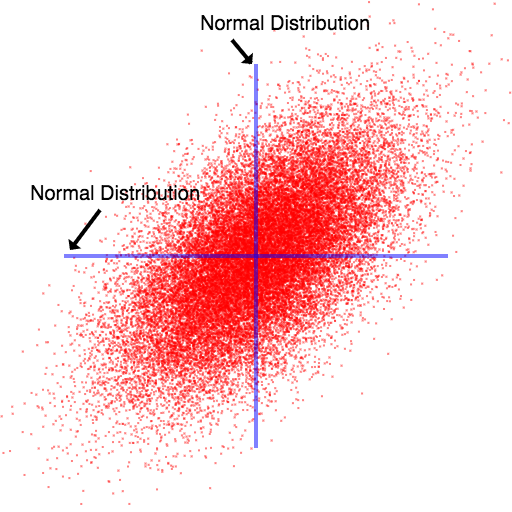
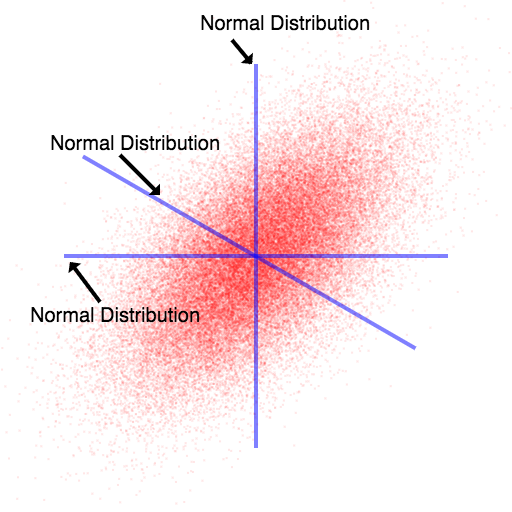
more gaussian processes edits

Changed region(s): [[0.0625, 0.0938, 0.9375, 0.9375], [0.875, 0.0625, 0.9062, 0.0938]]

diff --git a/Artificial-Intelligence/gaussian-processes.html b/Artificial-Intelligence/gaussian-processes.html
@@ -24,7 +24,10 @@ MathJax.Hub.Config({
 </p>
 
 <p>
-This article will focus on Gaussian process that map one input dimension to one output dimension.  Gaussian processes offer a way to take knowledge of a function at certain points and use that knowledge to place a probability distribution over the value of the function at other points.  For example, given that we know the value of a function at x=-1, x=0, x=1, and x=2, a particular Gaussian Process might make the following predictions for the values of the function for the function on the interval from -3 to 4:
+This article will focus on Gaussian process that map one input dimension to one output dimension, though the extension to multiple input dimensions should be natural.
+</p>
+<p>
+Gaussian processes offer a way to take knowledge of a function at certain points and use that knowledge to place a probability distribution over the value of the function at other points.  For example, given that we know the value of a function at x=-1, x=0, x=1, and x=2, a particular Gaussian Process might make the following predictions for the values of the function for the function on the interval from -3 to 4:
 </p>
 
 <img src="gp_figure1.png">
@@ -34,14 +37,18 @@ This article will focus on Gaussian process that map one input dimension to one 
 <h3>Multivariate Gaussian Distribution</h3>
 
 <p>
-The most natural extension of a Gaussian distribution to multiple dimensions seems to be
+The most natural extension of a Gaussian distribution to multiple dimensions is
 
 \[ \begin{bmatrix} \mathcal{N}(\mu_1, \sigma_1) & \mathcal{N}(\mu_2, \sigma_2) & \dots & \mathcal{N}(\mu_n, \sigma_n) \end{bmatrix} \]
 
-In two dimensions, the result would be:
+A two dimensional example (where $\sigma_x = \sigma_y * 2$) is:
 </p>
 
 <img src="gaussian2d.png" height="256px">
+
+<p>
+In general, such distributions let us represent distributions whose contour lines are axis-aligned ellipses.
+</p>
 
 <!-- <canvas id="cvs">
 </canvas>
@@ -75,8 +82,8 @@ cvs.width = 512;
 cvs.height = 512;
 
 c.fillStyle = "red";
-c.globalAlpha = 0.5;
-for (var i = 0; i < 30000; ++i) {
+c.globalAlpha = 0.1;
+for (var i = 0; i < 50000; ++i) {
 	var a = rnorm();
 	var b = rnorm();
 	var x = a - b / 3;
@@ -86,24 +93,37 @@ for (var i = 0; i < 30000; ++i) {
 	c.fillRect(x, cvs.height - y, 2, 2);
 }
 
+c.globalAlpha = 0.5;
 c.fillStyle = "blue";
-c.fillRect(cvs.width / 2 - 2, 64, 4, cvs.height - 128);
-c.fillRect(64, cvs.height / 2 - 2, cvs.width - 128, 4);
+c.fillRect(cvs.width * 0.6, 64, 4, cvs.height - 128);
+
+// var x = 150;
+// var y = 92;
+// c.fillRect(x, y, cvs.width - 128, 4);
+// c.rotate(-Math.PI / 6);
 
 c.globalAlpha = 1;
 c.fillStyle = "black";
 c.font = "20px sans-serif";
-c.fillText("Normal Distribution", 200, 30);
-c.fillText("Normal Distribution", 30, 200);
+c.textAlign = "center";
+c.fillText("f(0) = x = 1.3", cvs.width * 0.65, 50);
+// c.fillText("Normal Distribution", 200, 30);
+// c.fillText("Normal Distribution", 30, 322);
+// c.fillText("Normal Distribution", 50, 150);
 
-c.lineWidth = 4;
-draw_arrow(c, 232, 40, 20, 24, 8, 1);
-draw_arrow(c, 100, 210,-30, 40, 8, 1);
+// c.lineWidth = 4;
+// draw_arrow(c, 232, 40, 20, 24, 8, 1);
+// draw_arrow(c, 100, 302,-30, -40, 8, 1);
+// draw_arrow(c, 120, 155, 40, 40, 8, 1);
 
 </script> -->
 
 <p>
-A multivariate Gaussian distribution is a bit more powerful, and also lets the dimensions be correlated with each other.  Visually, this lets use represent ellipse-shaped distributions.  Practically it means that knowing about the value of the distribution along one dimension can give you some knowledge about its value along another dimension.
+A multivariate Gaussian distribution is a bit more powerful than this, as it also lets the dimensions be correlated with each other.  Visually, this lets use represent linear transformations of the ellipse-shape above.  Practically it means that knowing about the value of the distribution along one dimension can give you some knowledge about its value along another dimension.
+</p>
+
+<p>
+An important property is that any "slice" of a multivariate Gaussian distribution is a multivariate Gaussian distribution.  We will exploit this property. 
 </p>
 
 <img src="gaussian2d-2.png" height="384px">
@@ -111,42 +131,54 @@ A multivariate Gaussian distribution is a bit more powerful, and also lets the d
 <p>
 We represent a D-dimensional multivariate Gaussian distribution using the typical normal distribution notation "$\mathcal{N}(\mu, \sigma^2)$", but use a vector of means and a matrix of variances and covariances:
 
-\[ p(X_1 = x_1, X_2 = x_2, X_3 = x_3) = \mathcal{N}(\vec{\mu}, \Sigma) \]
+\[ p(\vec{x}) = \mathcal{N}(\vec{x}, \vec{\mu}, \Sigma) \]
 
 $\vec{\mu}$ contains $D$ elements and $\Sigma$ is a $D \times D$ matrix.  The diagonal of $\Sigma$ contains the variance of each variable, while $\Sigma_{ij}$ represents the covariance between dimensions $i$ and $j$.  $\Sigma$ is symmetric and positive semi-definite.
 </p>
 
 <p>
-When we say that "knowing about the value of the distribution alongn one dimension can give you some knowledge about its value along another dimension", what we're really talking about is conditioning.  In other words, starting with the joing distribution:
+When we say that "knowing about the value of the distribution along one dimension can give you some knowledge about its value along another dimension", what we're really talking about is conditioning.  In other words, starting with the 2D joint distribution:
 
-\[ p(Y = y, X = x) = \mathcal{N}(\vec{\mu}, \Sigma) \]
+\[ p([x, y]) = \mathcal{N}([x, y], \vec{\mu}, \Sigma) \]
 
 And trying to determine a posterior:
 
-\[ p(Y=y | X=x) = \dots \]
+\[ p(y | x) = \dots \]
 
-Most of what is described on this page can be derived once one knows the above expression.  We give this expression now, but in matrix form, which extends the solution to describing a posterior for multiple dimensions, given the values at multiple other dimensions.  Unsurprisingly, the posterior is another multivariate Gaussian!
+The pdf described by $p(y | x=c)$ is equivalent to asking for the (normalized) "slice" of the (original) joint distribution defined by $x = c$:
+
+<img src="gaussian2d-3.png" height="384px">
+
+Recall that this 'slice' is also a multivariate Gaussian distribution, so we'd like to define $p(y | x)$ using a mean vector $\mu$ and a variance matrix $\Sigma$.
 </p>
 
 <p>
-Suppose that, of the $D$ dimensions, you know the first $N$ dimensions.  Then let
+In the case where we condition on one dimension and want to know the distribution about another, the solution is is a regular 1-D Gaussian distirbution:
+
+\[ p(y | x) = \mathcal{N}(\mu, \Sigma)\]
+
+\[\mu = \mu_y + \frac{\text{cov}(x, y)}{\sigma_y} (x - \mu_x))\]
+
+\[ \Sigma = \sigma_y - \frac{\text{cov}(x, y)^2}{\sigma_x} \]
+</p>
+
+<p>
+But it will be useful to be able to condition on an arbitrary number of dimensions.  To that end, suppose you know the first $N$ dimensions of a $D$ dimensional multivariate Gaussian distribution.  Then we can organize $\Sigma$ into four corners:
 
 \[ \Sigma = \begin{bmatrix}
 \Sigma_{11} & \Sigma_{12}\\
 \Sigma_{21} & \Sigma_{22}
 \end{bmatrix} \]
 
-So that $\Sigma_{11}$ is the covariance matrix of the first $N$ dimensions and $Sigma_{22}$ is the covariance matrix of the remaining dimensions.  Also recall our prior:
+Recall that $\Sigma_{ij}$ is the covariance between dimensions $i$ and $j$.  $\Sigma_{11}$ is the covariance matrix of the first $N$ dimensions and $\Sigma_{22}$ is the covariance matrix of the remaining dimensions.  $\Sigma_{12}$ and $\Sigma_{21}$ are the covariances between the dimensions you know and the dimensions you don't know.  Then, for the joint distribution
 
-\[ p(X_1, X_2) = \mathcal{N}(\vec{\mu}, \Sigma) \]
+\[ p(\vec{x}) = \mathcal{N}(\vec{mu}, \Sigma) \]
 
-Then the posterior is:
+The conditional distribution is:
 </p>
 
 
-\[ p(X_2 | X_1) = \mathcal{N}(\vec{\mu}_{2|1}, \Sigma_{22|1})\]
-
-Where
+\[ p(\vec{x}_2 | \vec{x}_1) = \mathcal{N}(\vec{\mu}_{2|1}, \Sigma_{22|1})\]
 
 \[\vec{\mu}_{2|1} = \vec{\mu}_2 + \Sigma_{21} \Sigma_{11}^{-1} (X_1 - \vec{\mu}_1)\]
 
@@ -162,21 +194,21 @@ A Gaussian Process assigns every possible input-value a "dimension" in a multiva
 
 \[ f: \{0, 1\} \rightarrow \mathbb{R} \]
 
-Then in the image below, one could say that the "x-axis" represents our belief over the value of $f(0)$ and the "y-axis" represents our belief over the value of $f(1)$.  If we know the value of $f(0)$ (by observing it), then this may give us some information about the value of $f(1)$.  As noted above, conditioning on our knowledge of $f(0)$ yields a normal distribution over $f(1)$.
+Then in the image below, we could let the "x-axis" represent our belief over the value of $f(0)$ and the "y-axis" represent our belief over the value of $f(1)$.  If we know the value of $f(0)$ (by observing it), then this may give us some information about the value of $f(1)$.  As noted above, conditioning on our knowledge of $f(0)$ yields a normal distribution over $f(1)$.
 </p>
 
-<img src="gaussian2d-2.png" height="384px">
+<img src="gaussian2d-4.png" height="384px">
 
 <p>
 But many real world problems have uncountably many possible inputs.  A far more common case is a function that maps numbers to numbers:
 
 \[ f: \mathbb{R} \rightarrow \mathbb{R} \]
 
-A Gaussian Process will reason about this the exact same way it reasoned about the discrete case: if will form a Gaussian distribution over every possible input-value &mdash; but in this case the distribution is infinite dimensional.  Then it will look at the values/dimensinos it knows (i.e. the "training set" or "observations") and use this knowledge to compute a new multi-variate distribution over all the other points.
+A Gaussian Process will reason about this the exact same way it reasoned about the discrete case: if will form a Gaussian distribution over every possible input-value &mdash; but in this case the distribution is infinite dimensional.  Then it will look at the values/dimensions that it knows (i.e. the "training set" or "observations") and use this knowledge to compute a new multivariate distribution over all the other inputs.
 </p>
 
 <p>
-At first blush, it seems rather dubious that one could computationally use the machinery we used to condition finite-dimensional multivariate Gaussian distributions on infinite-dimensional ones... and such skepticism would be well place!  Recall the definition from the beginning of the article:
+At first blush, it seems rather dubious that one could computationally use the machinery we used to condition finite-dimensional multivariate Gaussian distributions to also condition on infinite-dimensional ones.  In fact, such skepticism would be well placed!  Recall the definition from the beginning of the article:
 
 <b>Def:</b> A <u>Gaussian Process</u> is a collection of random variables, any finite number of which have a joint Gaussian distribution
 </p>
@@ -185,17 +217,17 @@ The key is that we only ever <i>care</i> about the Gaussian distribution at a fi
 
 <img src="gp_figure1.png">
 
-We only know the input at 4 locations, and so if we ever want to determine a prediction at some other point, we simply have to form a 5-dimensional multivariate Gaussian distribution and condition the dimension whose value we want on the dimensions whose values we know:
+We only know the input at 4 locations, and so if we ever want to determine a prediction at some other point, we simply have to form a 5-dimensional multivariate Gaussian distribution, condition on the dimensions we know and see what the resulting distribution is for the dimension we want to know.  So if I want to know the normal distribution as $x = \frac{1}{2}$, then I'm just computing
 
-\[ p(f(x)\ |\ f(-1), f(0), f(1), f(2)) = \dots\]
+\[ p(f(\frac{1}{2})\ |\ f(-1), f(0), f(1), f(2)) = \dots\]
 </p>
 
 <p>
-Since we don't know what x-values we will observe and what x-values we will want to predict (until we're actually feeding our model data), we typically can't write out $\Sigma$ explicitly.  Instead, we represent $\Sigma$ with a "kernel" function $k$
+The only difference is that since we don't know what x-values we will observe and what x-values we will want to predict a priori (until we're actually feeding our model data), we typically can't write out $\Sigma$ explicitly beforehand.  Instead, we represent $\Sigma$ with a "kernel" function $k$
 
 \[ k: \mathbb{R} \times \mathbb{R} \rightarrow \mathbb{R} \]
 
-For example, if we want to evaluate the above model at $x=0.5$, then we have:
+For example, if we want to evaluate the above model at $x=\frac{1}{2}$, then we have:
 
 \[
 \Sigma = \begin{bmatrix}
@@ -209,50 +241,69 @@ k(\frac{1}{2}, -1) & k(\frac{1}{2}, 0) & k(\frac{1}{2}, 1) & k(\frac{1}{2}, 2) &
 
 Note that $k$ determines the covariance between two different inputs' outputs.  In other words
 
-\[ k(x_1, x_2) = cov(f(x_1), f(x_2))\]
+\[ k(x_1, x_2) = \text{cov}(f(x_1), f(x_2))\]
 
 </p>
 
 <h2>Another Perspective: Linear Regression</h2>
 
-Let's switch gears to another perspective, which is "deriving" Gaussian processes from linear regression... TODO
-
-Let $X$ and $\vec{y}$ be your observations (i.e. your "training data").  The Bayesian approach to linear regression is to assume that
+<p>
+Let's switch gears to another perspective, which is "deriving" Gaussian processes from linear regression. Let $X$ and $\vec{y}$ be your observations (i.e. your "training data").  The Bayesian approach to linear regression is to assume that
+</p>
 
 \[ \vec{y} = X^T \vec{w} + \vec{\epsilon} \]
 
 <p>
-For some vector $\vec{w}$, where $\epsilon$ is a normally distributed noise with mean=0 and standard deviation = $\sigma$.  It turns out the maximum likelihood estimator for $w$ is the same line that minimizes squared error - i.e. <a href="https://en.m.wikipedia.org/wiki/Linear_regression">linear regression</a>.
+	For some vector $\vec{w}$, where $\epsilon$ is a normally distributed noise with mean=0 and standard deviation = $\sigma$.  We can view the training data as evidence for what the true value of $w$ is, and arrive at a conditional probability over any $y_*$ given some $x_*$.  Some amount of fiddling around with Bayes' Theorem and normal distributions lets us arrive at this:
+
+	\[ p(y_* | x_*, X, \vec{y}) = \mathcal{N}(\vec{x}_*^T \vec{w}, \sigma^2) \]
+
+	Where $w^*$ is determined from the least-squares regression line, and $\sigma^2$ is a value we will calculate later.
 </p>
-<p>
-What's interesting about this formulation of the problem is that, rather than merely a line, it yields a normal distribution at every x value.  In other words, the probability distribution over the value $y_*$ at some $x_*$ is:
 
-\[ p(y_* | X, \vec{y}, \vec{x}_*) \propto \mathcal{N}(\mu = \vec{x}_*^Tw, \text{var} = \sigma^2) \]
+<p>
+	This means that the maximum likelihood estimator predicted by the Bayesian approach to linear regression is the same as a frequentists' least-squares regression line.  The difference is that a Bayesian has the solution formulated as a probability distribution (not just a line), so s/he may give probabilities that an observation will fall within some interval.
 </p>
+
+<h3>Higher Dimensions</h3>
+
 <p>
-Of course there are a wide number of nonlinear relationships that cannot be represented as a linear regression.  A common trick to expand this same machinery to a wider class of functions is to use some function
+	Of course there are a wide number of nonlinear relationships that cannot be represented as a linear regression.  A common trick to expand this same machinery to a wider class of functions is to use some function
 
-\[ \phi: \mathbb{R}^D \rightarrow \mathbb{R}^N \]
+	\[ \phi: \mathbb{R}^D \rightarrow \mathbb{R}^N \]
 
-to map data from a low dimensional space to a higher dimensional space, and then performing linear regression on the higher-dimensional vectors.  For example, if you map $\mathbb{R}^1$ to $\mathbb{R}^4$ with:
+	to map data from a low dimensional space to a higher dimensional space, and then performing linear regression on the higher-dimensional vectors.  For example, if you map $\mathbb{R}^1$ to $\mathbb{R}^4$ with:
 
-\[ \phi(x) = [1, x, x^2, x^3] \]
+	\[ \phi(x) = [1, x, x^2, x^3] \]
 
-then a linear regression on $\phi[X]$ is equivalent to finding the least-squares cubic polynomial.  In essence, by choosing some $\phi$, you're claiming that you believe the data can be modeled as
+	then a linear regression on $\phi[X]$ is equivalent to finding the least-squares cubic polynomial.  In essence, by choosing some $\phi$, you're claiming that you believe the data can be modeled as
 
-\[ \vec{y} + \vec{\epsilon} = \phi[X]^T \vec{w} \]
+	\[ \vec{y} = \phi[X]^T \vec{w} + \vec{\epsilon} \]
+</p>
 
+<p>
+	We haven't paid much attention to <i>actually calculating</i> the least squares line.  It turns out that the solution is given as
+
+	\[ p(y_* | \vec{x}_*, X, \vec{y}) = \mathcal{N}(\mu, \sigma^2)\]
+
+	\[\mu = \frac{1}{\sigma^2} \phi(x_*)^T A^{-1} \phi[X] y\]
+
+	\[\sigma^2 = \phi(x_*)^T A^{-1} \phi(x_*) \]
+
+	\[ A = \sigma^{-2}\phi[X] \phi[X]^T + \Sigma^{-1} \]
+
+	Where $\Sigma$ is the covariance matrix of the prior on $\vec{w}$.  For example, if $\vec{w}$'s components are uncorrelated normal distributions with means of zero and standard deviations $\sigma_1, \sigma_2, \dots, \sigma_n$, then:
+
+	\[ \Sigma = \begin{bmatrix}
+	\sigma_1 & 0 & \dots & 0\\
+	0 & \sigma_2 & \dots & 0\\
+	\vdots & \vdots & \ddots & \vdots\\
+	0 & 0 & \ddots & \sigma_n\\
+	\end{bmatrix}
+	 \]
 </p>
 
 <h2>Kernel Trick</h2>
-
-<p>
-The least-squares solution (i.e. the MLE, assuming it is a linear function with Gaussian noise) is solved with the following formula:
-
-\[ p(y_* | \vec{x}_*, X, \vec{y}) = \mathcal{N}(\frac{1}{\sigma^2} \phi(x_*)^T A^{-1} \phi[X] y, \phi(x_*)^T A^{-1} \phi(x_*)) \]
-
-Where $A = \sigma^{-2}\phi[X] \phi[X]^T + \Sigma^{-1}$, where $\Sigma$ is the covariance matrix of the prior on $\vec{w}$.  Note that $A$ is a square matrix and its size is equal to the dimensionality of $\phi(x)$
-</p>
 
 <p>
 The <b>kernel trick</b> is a trick in machine learning (and elsewhere) which, informally, involves swapping the dimensionality of your data points with the number of data points you have.  If you have data with high dimensionality and few points, you can often rephrase the problem as having low dimensionality and a high number of points.
@@ -272,11 +323,11 @@ k(A_2, B_1) & k(A_2, B_2) & \dots & k(A_2, B_m)\\
 k(A_n, B_1) & k(A_n, B_2) & \dots & k(A_n, B_m)\\
 \end{bmatrix} \]
 
-This notation allows us (after some thought) to rewrite the formula above as:
+This notation allows us (after some thought) to rewrite the formula for linear regression as:
 
-\[ p(y_* | \vec{X}_*, X, \vec{y}) = \mathcal{N}(\mu, \sigma^2)\]
+\[ p(\vec{y}_* | \vec{X}_*, X, \vec{y}) = \mathcal{N}(\mu, \sigma^2)\]
 
-\[\mu = k(X_*, X) k(X, X)^{-1} y,\]
+\[\mu = k(X_*, X) k(X, X)^{-1} \vec{y},\]
 
 \[\sigma^2 = k(X_*, X_*) - k(x_*, X) (X, X)^{-1} k(X, X_*)\]
 
@@ -289,21 +340,25 @@ An astute reader will note that this looks eerily similar to the formula for the
 
 \[\Sigma_{22|1} = \Sigma_{22} - \Sigma_{21} \Sigma_{11}^{-1} \Sigma_{12}\]
 
-And, indeed, they are nearly identical, except that the multivariate gaussian formulation need not assume that the mean value a priori is zero.  In other words, if $\vec{\mu} = 0$, then both formulations are the same.
+And, indeed, they are nearly identical, except that the multivariate gaussian formulation need not assume that the mean value is zero a priori.  In other words, if $\vec{\mu} = 0$, then both formulations are the same.
 </p>
 
-<h3>Why Did We Do This?</h3>
+<h3>Why Kernels?</h3>
 
 <p>
-First note that $K$ is a $|X| \times |X|$ matrix, which means that, as promised, calculating predictions no longer scales with the dimensionality of the data, but with the <i>number</i> of datapoints we have... that is, assuming that $k(x_1, x_2)$ can be evaluated quickly.  But considering that we defined $k(x_1, x_2$ as the inner product of $\phi(x_1)$ and $\phi(x_2)$, it seems clear that it <i>does</i> scale with the number of dimensions in the feature expansion.
-</p>
-
-<p>
-What's key is that there are many (useful!) feature expansions whose corresponding kernel can be <i>far</i> more efficiently calculated than its corresponding $\phi$.  This efficiency is taken to the extreme when $\phi$ maps to an <i>infinite</i> dimensional space &mdash; for instance, the famous $k(x_1, x_2) = e^{-(x_1 - x_2)^2}$ kernel.  While an inner product of an infinite dimensional feature expansion would take forever, evaluating $e^{-(x_1 - x_2)^2}$ is nearly instantaneous!
+	So why is it advantageous to use the kernel-substitution?
 </p>
 
 <p>
-That being said, it's probably not worth your time to "convert" a feature expansion you'd like to do into its corresponding kernel.  Instead, consider what you think is a "good" measure of two points' similarity and choose a kernel that reflects that.  Better yet, simply choose from some of the most popular kernels (some are listed at the bottom of this page).  And remember: a kernel ultimately is a measure of the  <i>similarity</i> of two points &mdash; it determines the <i>covariance</i> of their corresponding y values.
+	First note that $K$ is a $|X| \times |X|$ matrix, which means that, as promised, calculating predictions no longer scales with the dimensionality of the data, but with the <i>number</i> of datapoints we have... assuming that $k(x_1, x_2)$ can be evaluated quickly.  But considering that we defined $k(x_1, x_2$ as the inner product of $\phi(x_1)$ and $\phi(x_2)$, it seems clear that it <i>does</i> scale with the number of dimensions in the feature expansion.
+</p>
+
+<p>
+	What's key is that there are many (useful!) feature expansions whose corresponding kernel can be <i>far</i> more efficiently calculated than its corresponding $\phi$.  This efficiency is taken to the extreme when $\phi$ maps to an <i>infinite</i> dimensional space &mdash; for instance, the famous $k(x_1, x_2) = e^{-(x_1 - x_2)^2}$ kernel.  While an inner product of an infinite dimensional feature expansion would take forever, evaluating $e^{-(x_1 - x_2)^2}$ is nearly instantaneous!
+</p>
+
+<p>
+	That being said, it's probably not worth your time to "convert" a feature expansion you'd like to do into its corresponding kernel.  Instead, consider what you think is a "good" measure of two points' similarity and choose a kernel that reflects that.  Better yet, simply choose from some of the most popular kernels (some are listed at the bottom of this page).  And remember: a kernel ultimately is a measure of the  <i>similarity</i> of two points &mdash; it determines the <i>covariance</i> of their corresponding y values.
 </p>
 
 <h3>Example</h3>
@@ -328,11 +383,15 @@ And the observations
 \end{bmatrix}
 \]
 
-Using the formula for conditioning on Gaussians, we can calculate the multivariate normal distribution for any finite number of points we want.  In this case, I evaluated it at 700 evenly spaced points between -3 and 4, which gave me a 700-long $\vec{\mu}$ which represents the best guess (i.e. the center of the Gaussian) at each point.  Plotting this gave me the red line.
+Don't be fooled by the Gaussian nature of this kernel!  I could have chosen a completely different kernel, but the reasoning below would still apply.
 </p>
 
 <p>
-I also got a covariance matrix out, and the diagonal of the covariance matrix gives us the variance of each distribution.  If we take the square root and multiply by $1.96$ we can find a region for every $x$ that has a 95% chance of containing the "true" function value &mdash; this is the blue region.
+	Using the formula for conditioning on Gaussians, we can calculate the multivariate normal distribution for any finite number of points we want.  In this case, I evaluated it at 700 evenly spaced points between -3 and 4, which gave me a 700-long $\vec{\mu}$ which represents the best guess (i.e. the center of the Gaussian) at each point.  Plotting this gave me the red line.
+</p>
+
+<p>
+	I also got a covariance matrix, and the diagonal of this covariance matrix gives us the variance of each distribution (i.e. our "uncertainty" at each x-value).  If we convert the variance to a standard deviation and multiply by $1.96$ we can find a region for every $x$ that has a 95% chance of containing the "true" function value &mdash; this is the blue region.
 </p>
 
 <p>
@@ -342,13 +401,24 @@ Note that the red line hits every observed point exactly, and that our uncertain
 
 <h2>Noise</h2>
 <p>
-As you may have noticed, I have been ignoring noise terms.  Adding noise terms is a simple matter of adding $\sigma^2 I$ to $K(X,X)$.
+As you may have noticed, I have been ignoring noise terms.  Adding noise terms is a simple matter of adding $\sigma^2 I$ to $k(X,X)$.
 
 \[ p(y_* | \vec{X}_*, X, \vec{y}) = \mathcal{N}(\vec{\mu}, \Sigma)\]
 
-\[\mu = k(X_*, X) (K + \sigma^2 I)^{-1} y\]
+\[\mu = k(X_*, X) (k(X,X) + \sigma^2 I)^{-1} y\]
 
-\[\Sigma = k(X_*, X_*) - k(x_*, X) (K + \sigma^2 I)^{-1} k(X, X_*)\]
+\[\Sigma = k(X_*, X_*) - k(x_*, X) (k(X,X) + \sigma^2 I)^{-1} k(X, X_*)\]
+
+Because uor observations are now noisy, observing $f(0) = 1$ means that there is a probability the <i>actual</i> value of $f(0)$ is, say, 0.7, which means that simply taking a "slice" of the original multivariate distribution is no longer sound statistics.
+</p>
+
+<p>
+Instead, we have to convolve the normal distribution representing our belief of the value of $f(0)$ over the multivariate Gaussian:
+
+\[ p(y_* | y) = \int_{-\infty}^\infty \ p(y_* | y) \cdot p(y)\ dy \]
+
+Which is a weighted average of slices.  This is equivalent (though we won't prove it here) to increasing the variance of $f(0)$ with itself, which is precisely what adding $\sigma^2 I$ to $k(X,X)$ does.
+</p>
 
 </p>
 
